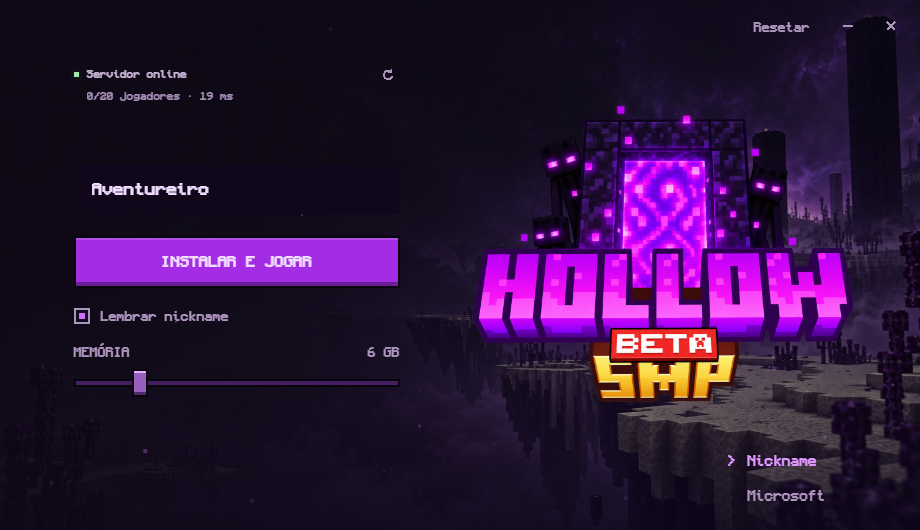
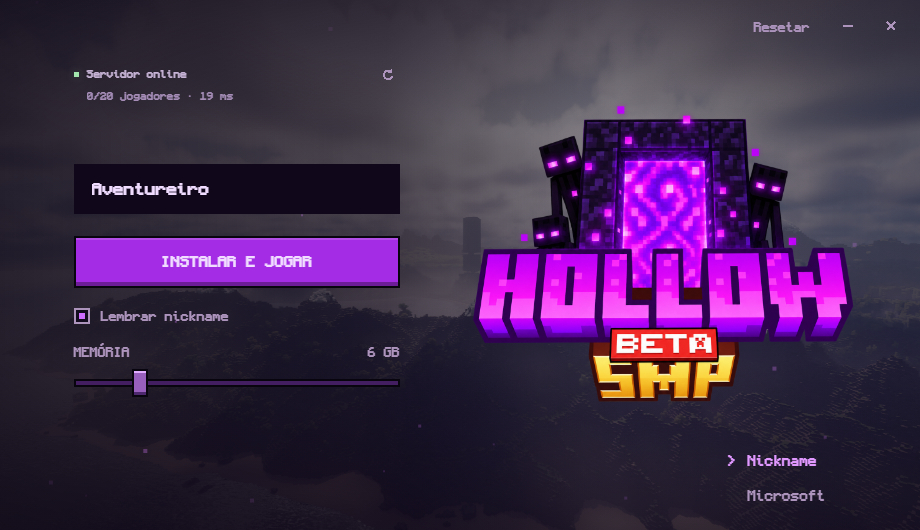
Use supplied Minecraft landscape as launcher background

diff --git a/renderer/style.css b/renderer/style.css
@@ -3,7 +3,7 @@
 * { box-sizing: border-box; }
 body { margin: 0; color: var(--ink); background: #100917; user-select: none; overflow: hidden; }
 .ambient { position: fixed; inset: 0; z-index: 0; overflow: hidden; pointer-events: none; }
-.ambient::after { content: ''; position: absolute; inset: 0; background: linear-gradient(90deg, #100917bb 0%, #10091766 42%, #10091714 67%, #10091733 100%), linear-gradient(0deg, #0e081bbb, transparent 28%, transparent 84%, #0e081b77); }
+.ambient::after { content: ''; position: absolute; inset: 0; background: linear-gradient(90deg, #100917db 0%, #100917b3 42%, #10091766 67%, #10091780 100%), linear-gradient(0deg, #0e081b99, transparent 32%, transparent 75%, #0e081b80); }
 .end-scene { position: absolute; inset: -2%; background: url('../assets/end-background.png') center/cover no-repeat; opacity: .88; animation: scene-drift 40s ease-in-out infinite alternate; }
 .end-mist { position: absolute; inset: -20%; opacity: .17; background: radial-gradient(ellipse at 70% 70%, #ba3df55c, transparent 45%), radial-gradient(ellipse at 30% 80%, #9f63ff44, transparent 42%); animation: mist-drift 24s ease-in-out infinite alternate; }
 @keyframes scene-drift { from { transform: translate3d(-4px, 0, 0) scale(1); } to { transform: translate3d(4px, -3px, 0) scale(1.015); } }

diff --git a/README.md b/README.md
@@ -1,11 +1,11 @@
 <p align="center"><img src="assets/logo_smp.png" alt="Hollow SMP" width="260"></p>
 <h1 align="center">Hollow Launcher</h1>
 <p align="center">Launcher Electron do Hollow SMP para Windows.<br>Instalação automática, visual pixelado e modpack pelo AutoModpack.</p>
-<p align="center"><img alt="Electron" src="https://img.shields.io/badge/Electron-44.5.1-8b2de2"> <img alt="Minecraft" src="https://img.shields.io/badge/Minecraft-1.21.1-bb55ff"> <img alt="Launcher" src="https://img.shields.io/badge/Launcher-2.1.0-rc.4-8b2de2"></p>
+<p align="center"><img alt="Electron" src="https://img.shields.io/badge/Electron-44.5.1-8b2de2"> <img alt="Minecraft" src="https://img.shields.io/badge/Minecraft-1.21.1-bb55ff"> <img alt="Launcher" src="https://img.shields.io/badge/Launcher-2.1.0-rc.5-8b2de2"></p>
 
 ![Interface do Hollow Launcher](docs/launcher.png)
 
-O cenário do End combina arte local, névoa e partículas discretas. O painel consulta o servidor diretamente: números na captura são ilustrativos e variam na execução.
+O fundo usa a paisagem Minecraft fornecida pelo responsável do Hollow, com escurecimento para leitura, névoa e partículas discretas. O painel consulta o servidor diretamente: números na captura são ilustrativos e variam na execução.
 
 ## Baixar e jogar
 
@@ -27,7 +27,7 @@ A versão 2.0 substitui a interface Windows Forms por HTML, CSS e JavaScript, co
 - Cores roxas da logo, fonte Monocraft em negrito e controles superiores sem borda.
 - Flutuação suave da logo com animação CSS por `transform`, pausada ao ocultar a janela. Respeita a preferência do sistema por movimento reduzido.
 - Entrada suave da interface, brilho discreto e pressão nos botões, troca animada de conta, progresso e avisos com transições. Animações não deslocam o layout final nem bloqueiam os controles.
-- Cenário do End, névoa e 18 partículas quadradas, com movimento reduzido e pausa ao ocultar.
+- Paisagem Minecraft, névoa e 18 partículas quadradas, com movimento reduzido e pausa ao ocultar.
 - Brilho do portal ao clicar em Jogar e durante a preparação.
 - Status Java direto, jogadores e ping por pong, atualização a cada 45 segundos enquanto visível e botão para atualizar. Falha de consulta mostra **Sem resposta**, permite jogar e não inventa estado offline.
 - Memória de 2 a 24 GB por arraste ou teclado.
@@ -80,7 +80,7 @@ npm run build
 npm run package
 ```
 
-`build` gera `dist/HollowSMP-Launcher-2.1.0-rc.4.exe`, um executável portátil. `package` gera `dist/HollowSMP-Launcher-Windows.zip`, instruções, licenças e `SHA256.txt`. O empacotamento usa electron-builder e não exige Visual Studio ou compilador C#.
+`build` gera `dist/HollowSMP-Launcher-2.1.0-rc.5.exe`, um executável portátil. `package` gera `dist/HollowSMP-Launcher-Windows.zip`, instruções, licenças e `SHA256.txt`. O empacotamento usa electron-builder e não exige Visual Studio ou compilador C#.
 
 O executável não possui certificado de assinatura de código do Hollow. Para uma distribuição assinada, configure seu certificado no electron-builder.
 

diff --git a/docs/AMBIENTE.md b/docs/AMBIENTE.md
@@ -1,12 +1,10 @@
-# Ambiente do End
+# Ambiente do launcher
 
-Arte original criada pelo recurso integrado de geração de imagens, usando a skill imagegen, para o fundo do Hollow Launcher. Arquivo nos fontes: `assets/end-background.png`. A logo original e o ícone não foram alterados.
+O fundo atual é a paisagem Minecraft fornecida pelo responsável do Hollow na versão 2.1.0-rc.5. A imagem foi copiada integralmente para `assets/end-background.png`; esse nome interno foi mantido por compatibilidade. A logo e o ícone permanecem originais.
 
-As partículas, névoa, deslocamento do cenário e reação do portal são feitos em CSS. O campo tem 18 partículas, animações pausadas quando a janela está escondida e alternativa estática para movimento reduzido.
+O escurecimento é aplicado em CSS para manter textos e controles legíveis. Partículas, névoa, deslocamento suave e reação do portal também usam CSS, com pausa ao esconder e alternativa estática para movimento reduzido.
 
-## Prompt final utilizado
-
-Use case: stylized-concept. Asset type: widescreen desktop Minecraft modpack launcher background, landscape 16:9. Create an original cinematic voxel/block-world environment inspired by Minecraft's End dimension, with dark obsidian towers, distant floating islands and blocky pale end-stone ledges, deep charcoal-plum void sky, subdued violet ambient lighting, a faint magenta glow on the horizon and soft purple mist. No characters, no portal, no text, no letters, no logo, no UI. Composition purpose: launcher controls occupy the left 45% and a large existing colorful logo will overlay the right center. Keep left half extremely quiet and dark with empty negative space, mostly dark void and distant mist. Place the most interesting but restrained voxel silhouettes low along the bottom and far right edges. Maintain visible block geometry, clean atmospheric depth, muted colors and moderate contrast; no bright lights behind controls, no busy texture, no yellow sky, no photorealism. Background should evoke an immersive calm End landscape while leaving the launcher UI readable. Finished production-quality environmental art, not a mockup.
+O cenário gerado anteriormente para a versão rc.3 e seu prompt continuam disponíveis no histórico do Git.
 
 ## Painel do servidor
 

diff --git a/docs/VALIDACAO.md b/docs/VALIDACAO.md
@@ -65,3 +65,8 @@ Seis testes do status Java: frames fragmentados e pong, servidor sem pong, timeo
 
 Título redundante removido e formulário reposicionado. Verificação Electron passou: controles, memória, animações, modos de conta, avisos, ocultar/restaurar e cenário. Captura revisada visualmente.
 
+
+## Fundo fornecido — 2.1.0-rc.5
+
+Paisagem enviada pelo responsável copiada sem alteração. Escurecimento ajustado em CSS. Interface Electron passou e captura foi revisada quanto a alinhamento e legibilidade.
+
